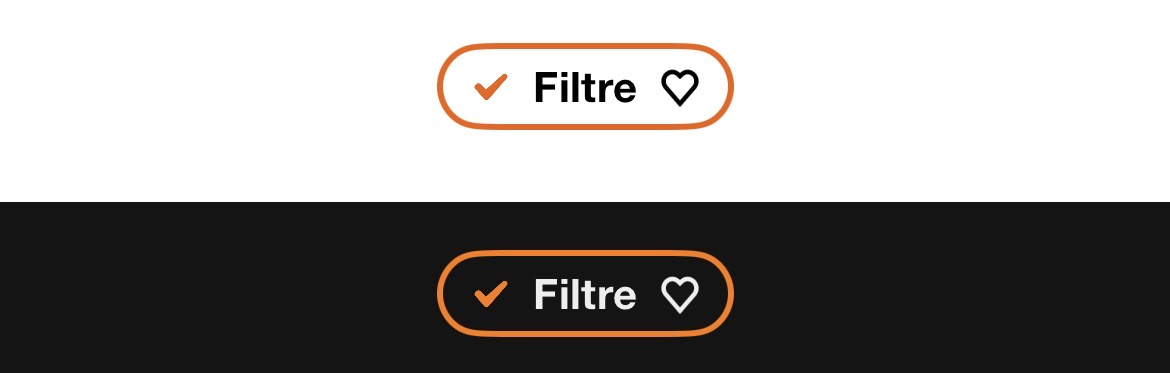
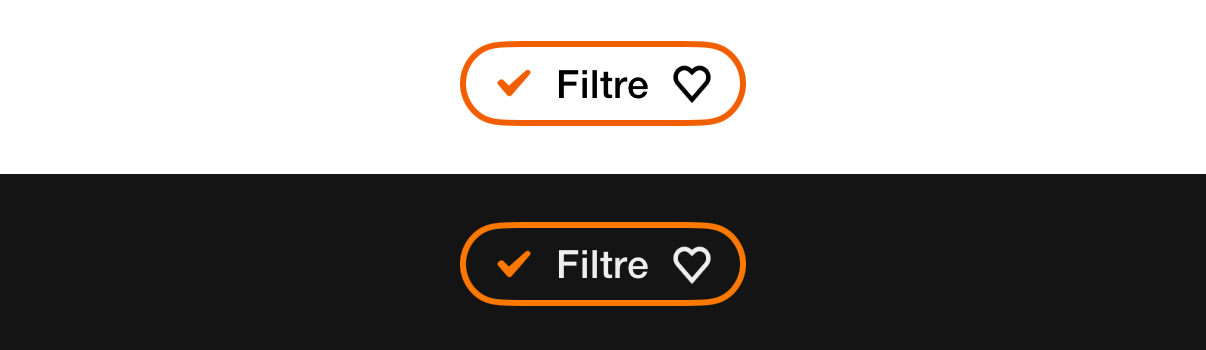
refactor: update `filter chip` and `suggestion chip` components to v1.4 (#1441) (#1513)
Change the typography of texts for filter chip and suggestion chip components

Closes #1441

Changed region(s): [[0.3692, 0.6286, 0.6462, 0.9143], [0.0, 0.4857, 1.0, 0.5429], [0.3692, 0.1143, 0.6462, 0.3714]]

diff --git a/OUDS/Core/ThemesContract/Sources/TokenatorConstants.swift b/OUDS/Core/ThemesContract/Sources/TokenatorConstants.swift
@@ -53,12 +53,12 @@
 
     /// Version of the Figma specifications for the component checkbox (2.4.0)
     public static let componentCheckboxVersion = "2.4.0"
-    /// Version of the Figma specifications for the component filter chip (1.3.0)
-    public static let componentFilterChipVersion = "1.3.0" // NOTE: #1473 - v1.4.0 not implemented yet
-    /// Version of the Figma specifications for the component suggestion chip (1.3.0)
-    public static let componentSuggestionChipVersion = "1.3.0" // NOTE: #1473 - v1.4.0 not implemented yet
-    /// Version of the Figma specifications for the component filter chip expand (1.3.0)
-    public static let componentFilterChipExpandVersion = "1.3.0" // NOTE: #1473 - v1.4.0 not implemented yet
+    /// Version of the Figma specifications for the component filter chip (1.4.0)
+    public static let componentFilterChipVersion = "1.4.0"
+    /// Version of the Figma specifications for the component suggestion chip (1.4.0)
+    public static let componentSuggestionChipVersion = "1.4.0"
+    /// Version of the Figma specifications for the component filter chip expand (1.4.0)
+    public static let componentFilterChipExpandVersion = "1.4.0"
     /// Version of the Figma specifications for the component radio button (1.4.0)
     public static let componentRadioButtonVersion = "1.4.0"
     /// Version of the Figma specifications for the component switch (1.5.0)

diff --git a/OUDS/Core/Components/Sources/Controls/Chip/OUDSSuggestionChip.swift b/OUDS/Core/Components/Sources/Controls/Chip/OUDSSuggestionChip.swift
@@ -63,7 +63,7 @@ import SwiftUI
 ///
 /// ![A suggestion chip component in light and dark modes with Wireframe theme](component_suggestionChip_Wireframe)
 ///
-/// - Version: 1.3.0
+/// - Version: 1.4.0
 /// - Since: 0.17.0
 @available(iOS 15, macOS 13, visionOS 1, watchOS 11, tvOS 16, *)
 public struct OUDSSuggestionChip: View {

diff --git a/OUDS/Core/Components/Sources/Controls/Chip/OUDSFilterChip.swift b/OUDS/Core/Components/Sources/Controls/Chip/OUDSFilterChip.swift
@@ -56,7 +56,7 @@ import SwiftUI
 ///
 /// ![A filter chip component in light and dark modes with Wireframe theme](component_filterChip_Wireframe)
 ///
-/// - Version: 1.3.0
+/// - Version: 1.4.0
 /// - Since: 0.17.0
 @available(iOS 15, macOS 13, visionOS 1, watchOS 11, tvOS 16, *)
 public struct OUDSFilterChip: View {

diff --git a/OUDS/Core/Components/Sources/Controls/Chip/Internal/Chip.swift b/OUDS/Core/Components/Sources/Controls/Chip/Internal/Chip.swift
@@ -157,7 +157,7 @@ private struct ChipText: View {
 
     var body: some View {
         Text(LocalizedStringKey(text))
-            .labelStrongMedium(theme)
+            .labelModerateMedium(theme)
             .multilineTextAlignment(.center)
     }
 }

diff --git a/CHANGELOG.md b/CHANGELOG.md
@@ -8,6 +8,7 @@ and this project adheres to [Semantic Versioning](https://semver.org/spec/v2.0.0
 
 ### Changed
 
+- `filter chip` and `suggestion chip` components with label medium moderate typography for text (Orange-OpenSource/ouds-ios#1441)
 - `input tag` component with label medium moderate typography for text (Orange-OpenSource/ouds-ios#1450)
 - `control item` component token renamed `spacePaddingBlockDensityCompactTopAlignmentTopTextContainer`
 
